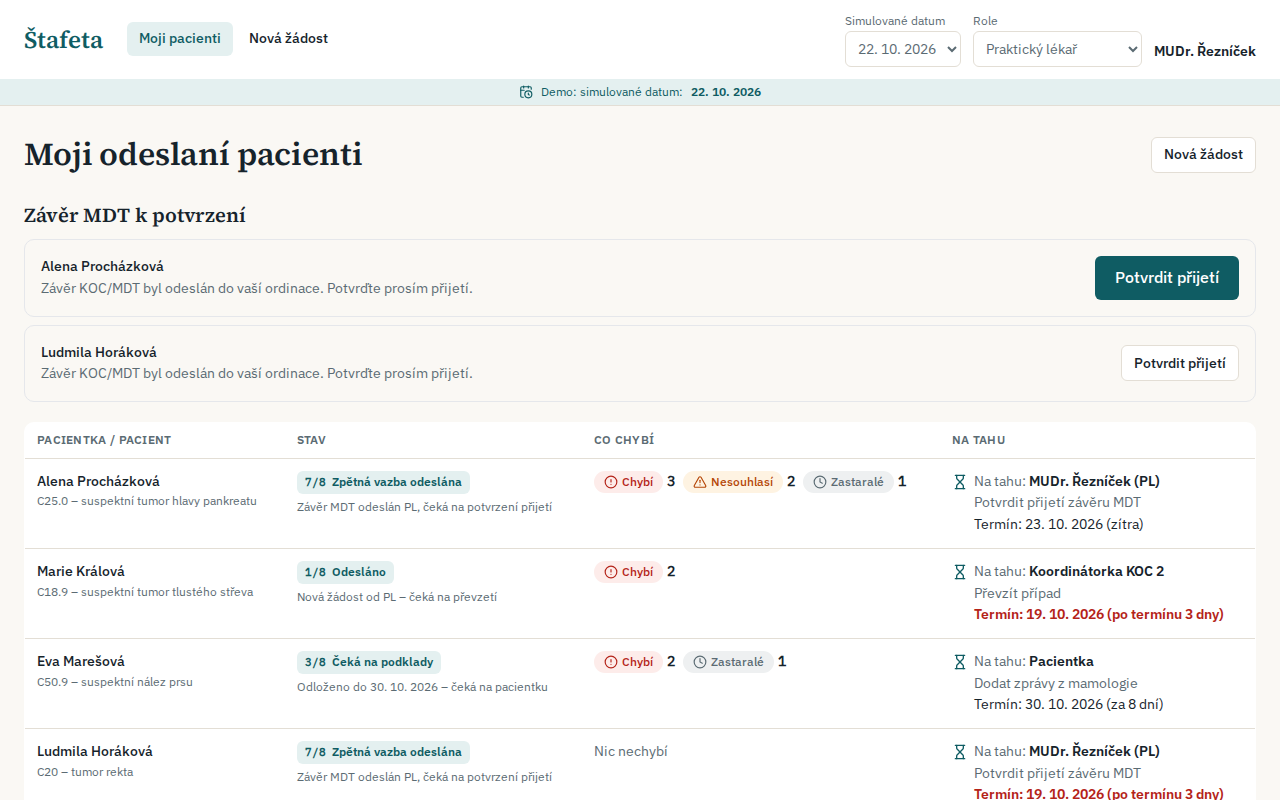
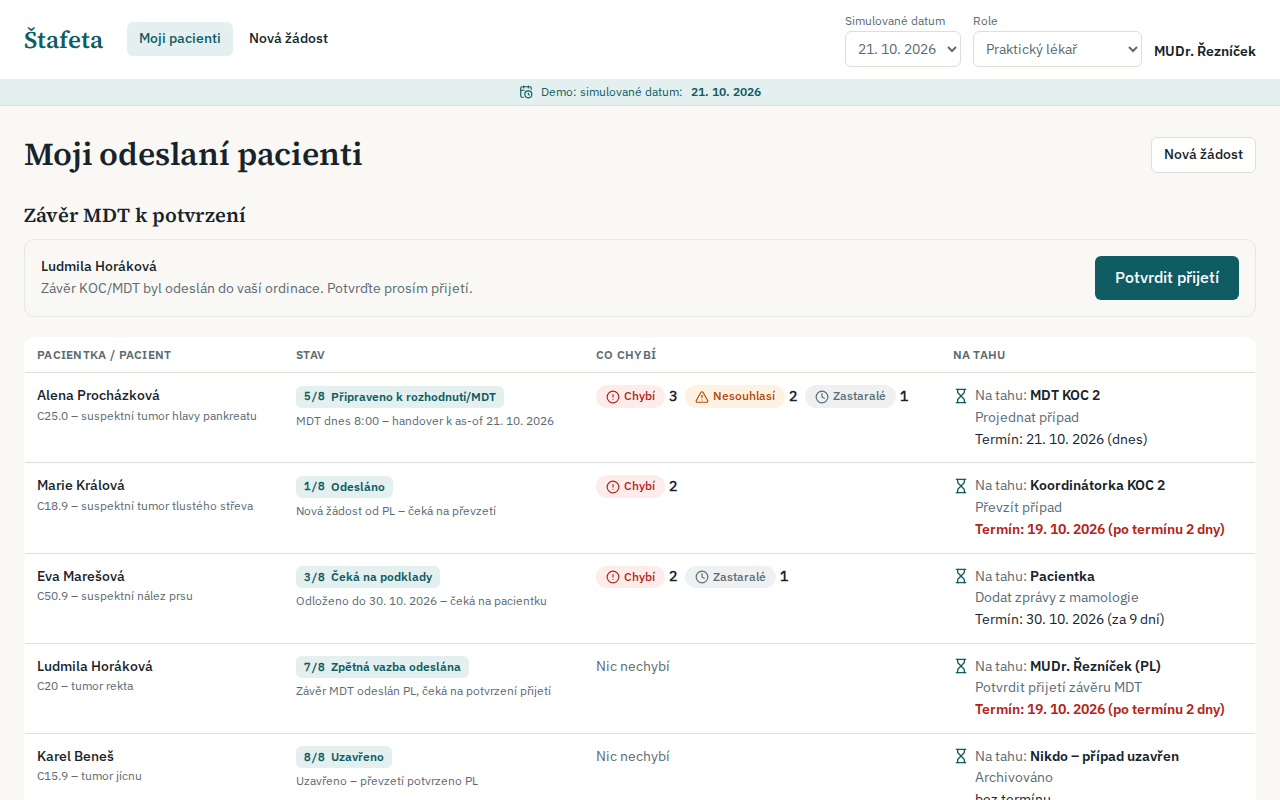
fix(frontend): GP acknowledgement driven by sent conclusion, mark mock copy

diff --git a/frontend/src/mocks/fixtures/cases.ts b/frontend/src/mocks/fixtures/cases.ts
@@ -1,3 +1,4 @@
+// MOCK copy – replaced by API in F2/F3
 import type { CaseDetail, CaseState, CaseSummary } from '@/lib/domain'
 import { daysUntil } from '@/lib/date'
 import { countFindings } from './findings'
@@ -8,14 +9,15 @@ export const ALENA_ID = 'rakathon-2026-prochazkova'
 
 export interface MockStore {
   claimed: boolean
-  acknowledged: boolean
+  acknowledged: string[]
+  feedbackSent: boolean
   mdtGeneratedAt: string | null
   confirmed: Record<string, string>
   extraCases: CaseDetail[]
 }
 
 export function newStore(): MockStore {
-  return { claimed: false, acknowledged: false, mdtGeneratedAt: null, confirmed: {}, extraCases: [] }
+  return { claimed: false, acknowledged: [], feedbackSent: false, mdtGeneratedAt: null, confirmed: {}, extraCases: [] }
 }
 
 const COORD = 'Bc. Dvořáková'
@@ -25,11 +27,11 @@ function alena(today: string, s: MockStore): CaseDetail | null {
   let state: CaseState
   let subStatus: string
   let baton: CaseSummary['baton']
-  if (s.acknowledged && today >= '2026-10-22') {
+  if (s.feedbackSent && s.acknowledged.includes(ALENA_ID)) {
     state = 'closed'
     subStatus = 'Uzavřeno – převzetí potvrzeno PL'
     baton = { name: 'Nikdo – případ uzavřen', action: 'Archivováno s auditní stopou', due: null }
-  } else if (today >= '2026-10-22') {
+  } else if (s.feedbackSent) {
     state = 'feedback_sent'
     subStatus = 'Závěr MDT odeslán PL, čeká na potvrzení přijetí'
     baton = { name: 'MUDr. Řezníček (PL)', action: 'Potvrdit přijetí závěru MDT', due: '2026-10-23' }
@@ -72,7 +74,7 @@ function alena(today: string, s: MockStore): CaseDetail | null {
     gp: 'MUDr. Řezníček',
     urgent: true,
     referredAt: '2026-10-02',
-    t: { t1: INTERVALS.t1, t2, t3: today >= '2026-10-22' ? INTERVALS.t3 : null },
+    t: { t1: INTERVALS.t1, t2, t3: s.feedbackSent ? INTERVALS.t3 : null },
   }
 }
 
@@ -87,7 +89,12 @@ const OTHERS: CaseDetail[] = [
 
 export function allCases(today: string, s: MockStore): CaseDetail[] {
   const a = alena(today, s)
-  return [...(a ? [a] : []), ...s.extraCases, ...OTHERS.filter((c) => c.referredAt <= today)]
+  const others = OTHERS.filter((c) => c.referredAt <= today).map((c) =>
+    c.state === 'feedback_sent' && s.acknowledged.includes(c.id)
+      ? { ...c, state: 'closed' as const, subStatus: 'Uzavřeno – převzetí potvrzeno PL', baton: { name: 'Nikdo – případ uzavřen', action: 'Archivováno s auditní stopou', due: null } }
+      : c,
+  )
+  return [...(a ? [a] : []), ...s.extraCases, ...others]
 }
 
 export function caseById(id: string, today: string, s: MockStore): CaseDetail | undefined {

diff --git a/frontend/src/routes.test.tsx b/frontend/src/routes.test.tsx
@@ -1,9 +1,11 @@
-import { screen, waitFor, within } from '@testing-library/react'
+import { cleanup, screen, waitFor, within } from '@testing-library/react'
 import userEvent from '@testing-library/user-event'
 import { axe } from 'vitest-axe'
+import { api } from '@/lib/api/http'
 import { renderRoute } from '@/test/render'
 
-const ALENA = '/cases/rakathon-2026-prochazkova'
+const ALENA_ID = 'rakathon-2026-prochazkova'
+const ALENA = `/cases/${ALENA_ID}`
 
 describe('route smoke + axe', () => {
   it('inbox: three columns with cards and a single primary claim action', async () => {
@@ -63,11 +65,24 @@ describe('route smoke + axe', () => {
     expect(await screen.findByRole('heading', { name: 'Odesláno' })).toBeInTheDocument()
   })
 
-  it('gp: lists referred patients and offers acknowledgement of the MDT result', async () => {
-    const { container } = renderRoute('/gp', { role: 'gp', today: '2026-10-22' })
+  it('gp: offers acknowledgement only for cases whose conclusion was sent (not by date)', async () => {
+    const { container } = renderRoute('/gp', { role: 'gp', today: '2026-10-21' })
     expect(await screen.findByRole('heading', { name: 'Moji odeslaní pacienti' })).toBeInTheDocument()
-    expect(await screen.findAllByRole('button', { name: /Potvrdit přijetí závěru MDT/ })).not.toHaveLength(0)
+    expect(await screen.findByRole('button', { name: 'Potvrdit přijetí závěru MDT: Ludmila Horáková' })).toBeInTheDocument()
+    expect(screen.queryByRole('button', { name: /Potvrdit přijetí závěru MDT: Alena/ })).toBeNull()
     expect(await axe(container)).toHaveNoViolations()
+  })
+
+  it('demo step 6 on 21. 10.: sending the conclusion makes the GP acknowledgement appear', async () => {
+    renderRoute('/', { today: '2026-10-21' })
+    await api.post(`/api/cases/${ALENA_ID}/handover/confirm-all`)
+    await api.post(`/api/cases/${ALENA_ID}/mdt/generate?as_of=${encodeURIComponent('2026-10-21T08:00:00+02:00')}`)
+    await api.post(`/api/cases/${ALENA_ID}/send-feedback`)
+    cleanup()
+    renderRoute('/gp', { role: 'gp', today: '2026-10-21', keepStore: true })
+    const ack = await screen.findByRole('button', { name: /Potvrdit přijetí závěru MDT: Alena/ })
+    await userEvent.click(ack)
+    await waitFor(() => expect(screen.queryByRole('button', { name: /Potvrdit přijetí závěru MDT: Alena/ })).toBeNull())
   })
 
   it('reviewer: minimal summary without full patient names', async () => {

diff --git a/frontend/src/features/mdt/Mdt.tsx b/frontend/src/features/mdt/Mdt.tsx
@@ -9,7 +9,7 @@ import { ApiError } from '@/lib/api/http'
 import { mdt as t } from '@/i18n/cs/mdt'
 import { formatDate, formatDateTime, isoToPragueLocal, pragueLocalToIso } from '@/lib/date'
 import { cn } from '@/lib/cn'
-import { useGenerateMdt, useMdt } from './api'
+import { useGenerateMdt, useMdt, useSendFeedback } from './api'
 import type { GateItem } from './types'
 
 const AS_OF_DEFAULT = '2026-10-21T08:00:00+02:00'
@@ -48,6 +48,8 @@ export function Mdt() {
   const [asOf, setAsOf] = useState(AS_OF_DEFAULT)
   const q = useMdt(id, asOf)
   const gen = useGenerateMdt(id, asOf)
+  const send = useSendFeedback(id)
+  const generated = Boolean(q.data?.generatedAt) || gen.isSuccess
 
   return (
     <div className="space-y-5">
@@ -69,15 +71,17 @@ export function Mdt() {
           </label>
         </div>
         <div className="max-w-sm text-right">
-          <Button
-            variant="primary"
-            disabled={!q.data?.ready || gen.isPending}
-            aria-describedby="gate-h"
-            onClick={() => gen.mutate()}
-          >
-            {t.generate}
-          </Button>
-          {q.data && !q.data.ready && <p className="mt-1 text-xs text-missing">{t.generateBlocked}</p>}
+          {generated ? (
+            <Button variant="primary" disabled={send.isPending || send.isSuccess} onClick={() => send.mutate()}>
+              {t.sendFeedback}
+            </Button>
+          ) : (
+            <Button variant="primary" disabled={!q.data?.ready || gen.isPending} aria-describedby="gate-h" onClick={() => gen.mutate()}>
+              {t.generate}
+            </Button>
+          )}
+          {send.isSuccess && <p role="status" className="mt-1 text-xs text-verified">{t.feedbackSent}</p>}
+          {q.data && !generated && !q.data.ready && <p className="mt-1 text-xs text-missing">{t.generateBlocked}</p>}
         </div>
       </div>
 
@@ -91,7 +95,7 @@ export function Mdt() {
 
       {q.data && (
         <>
-          {(q.data.generatedAt || gen.isSuccess) && (
+          {generated && (
             <div role="status" className="rounded-lg border border-verified/40 bg-verified-bg p-3 text-verified">
               {t.generated(formatDateTime(q.data.generatedAt ?? asOf))} <span className="text-muted">{t.exportNote}</span>
             </div>

diff --git a/frontend/src/mocks/fixtures/handover.ts b/frontend/src/mocks/fixtures/handover.ts
@@ -1,3 +1,4 @@
+// MOCK copy – replaced by API in F2/F3
 import type { HandoverSection, HandoverStatus } from '@/lib/domain'
 import { formatDate } from '@/lib/date'
 import { golden } from './golden'
@@ -67,6 +68,7 @@ function rowsFor(key: string, f: Gf): Row[] {
       ]
     case '4_epicrisis':
       return [
+        // MOCK copy – replaced by API in F2/F3 (AI epikríza draft)
         {
           value:
             'V dokumentaci uvedeno: od poloviny srpna 2026 bolesti v epigastriu, v laboratoři cholestáza; UZ břicha 29. 9. 2026 – ložisko hlavy pankreatu suspektní z malignity; CT 8. 10. 2026 – tumor hlavy pankreatu 35 mm; EUS-FNB 12. 10. 2026; histologie vydána 19. 10. 2026 – duktální adenokarcinom; CA 19-9 312 kU/l (15. 10. 2026).',

diff --git a/frontend/src/mocks/handlers/cases.ts b/frontend/src/mocks/handlers/cases.ts
@@ -37,11 +37,12 @@ export const handlers = [
     return HttpResponse.json({ ok: true })
   }),
   http.post('/api/cases/:id/acknowledge', ({ params }) => {
-    if (isAlena(params.id)) store.acknowledged = true
+    const id = String(params.id)
+    if (!store.acknowledged.includes(id)) store.acknowledged.push(id)
     return HttpResponse.json({ ok: true })
   }),
   http.post('/api/mock/reset', () => {
-    Object.assign(store, { claimed: false, acknowledged: false, mdtGeneratedAt: null, confirmed: {}, extraCases: [] })
+    Object.assign(store, { claimed: false, acknowledged: [], feedbackSent: false, mdtGeneratedAt: null, confirmed: {}, extraCases: [] })
     return HttpResponse.json({ ok: true, cases: allCases('2026-10-16', store).length })
   }),
 ]

diff --git a/frontend/src/mocks/handlers/mdt.ts b/frontend/src/mocks/handlers/mdt.ts
@@ -13,6 +13,11 @@ export const handlers = [
     const sections = buildSections(store.confirmed)
     return HttpResponse.json({ ...buildMdt(asOf, sections, store.mdtGeneratedAt), sections })
   }),
+  http.post('/api/cases/:id/send-feedback', () => {
+    if (!store.mdtGeneratedAt) return problem(409, 'Nejprve vygenerujte MDT zápis')
+    store.feedbackSent = true
+    return HttpResponse.json({ ok: true })
+  }),
   http.post('/api/cases/:id/mdt/generate', ({ request }) => {
     const asOf = new URL(request.url).searchParams.get('as_of') ?? AS_OF_DEFAULT
     const view = buildMdt(asOf, buildSections(store.confirmed), null)

diff --git a/frontend/src/i18n/cs/mdt.ts b/frontend/src/i18n/cs/mdt.ts
@@ -5,6 +5,8 @@ export const mdt = {
   gateTitle: 'Připravenost k MDT',
   gateLevels: { ok: 'Splněno', blocker: 'Blokuje', warning: 'K ověření', info: 'Informace' },
   generate: 'Vygenerovat MDT zápis',
+  sendFeedback: 'Odeslat závěr praktickému lékaři',
+  feedbackSent: 'Závěr byl odeslán praktickému lékaři. Čeká se na potvrzení přijetí.',
   generateBlocked: 'Zápis nelze vygenerovat, dokud některá podmínka blokuje.',
   generated: (when: string) => `MDT zápis byl vygenerován ke stavu ${when}.`,
   exportNote: 'Export DOCX/PDF v rozložení MDT_zapis zajistí backend po napojení.',

diff --git a/frontend/src/test/render.tsx b/frontend/src/test/render.tsx
@@ -6,8 +6,8 @@ import { setDemo } from '@/lib/demo'
 import type { Role } from '@/lib/domain'
 import { resetStore } from '@/mocks/fixtures/store'
 
-export function renderRoute(path: string, opts: { role?: Role; today?: string } = {}) {
-  resetStore()
+export function renderRoute(path: string, opts: { role?: Role; today?: string; keepStore?: boolean } = {}) {
+  if (!opts.keepStore) resetStore()
   setDemo({ role: opts.role ?? 'coordinator', today: opts.today ?? '2026-10-16' })
   return render(
     <Providers queryClient={makeQueryClient()}>

diff --git a/frontend/src/lib/demo.ts b/frontend/src/lib/demo.ts
@@ -2,7 +2,7 @@ import type { Role } from './domain'
 
 // Simulated "today" and role for the demo. Module-level so the API layer can read it;
 // DemoContext keeps React in sync and persists it.
-export const DEMO_DATES = ['2026-10-02', '2026-10-12', '2026-10-16', '2026-10-19', '2026-10-21', '2026-10-22'] as const
+export const DEMO_DATES = ['2026-10-02', '2026-10-12', '2026-10-16', '2026-10-19', '2026-10-21'] as const
 
 const KEY = 'stafeta.demo'
 let state: { role: Role; today: string } = { role: 'coordinator', today: '2026-10-16' }

diff --git a/frontend/src/features/mdt/api.ts b/frontend/src/features/mdt/api.ts
@@ -9,6 +9,14 @@ export function useMdt(id: string, asOf: string) {
   })
 }
 
+export function useSendFeedback(id: string) {
+  const qc = useQueryClient()
+  return useMutation({
+    mutationFn: () => api.post(`/api/cases/${id}/send-feedback`),
+    onSuccess: () => qc.invalidateQueries(),
+  })
+}
+
 export function useGenerateMdt(id: string, asOf: string) {
   const qc = useQueryClient()
   return useMutation({

diff --git a/frontend/src/mocks/fixtures/documents.ts b/frontend/src/mocks/fixtures/documents.ts
@@ -1,3 +1,4 @@
+// MOCK copy – replaced by API in F2/F3
 import type { DocumentInfo } from '@/lib/domain'
 
 // Titles and places come from the golden file (examinations); received dates are fictitious demo values.

diff --git a/frontend/src/mocks/fixtures/mdt.ts b/frontend/src/mocks/fixtures/mdt.ts
@@ -1,3 +1,4 @@
+// MOCK copy – replaced by API in F2/F3
 import type { DocumentInfo, HandoverSection } from '@/lib/domain'
 import { isOnOrBefore } from '@/lib/date'
 import { DOCUMENTS } from './documents'
